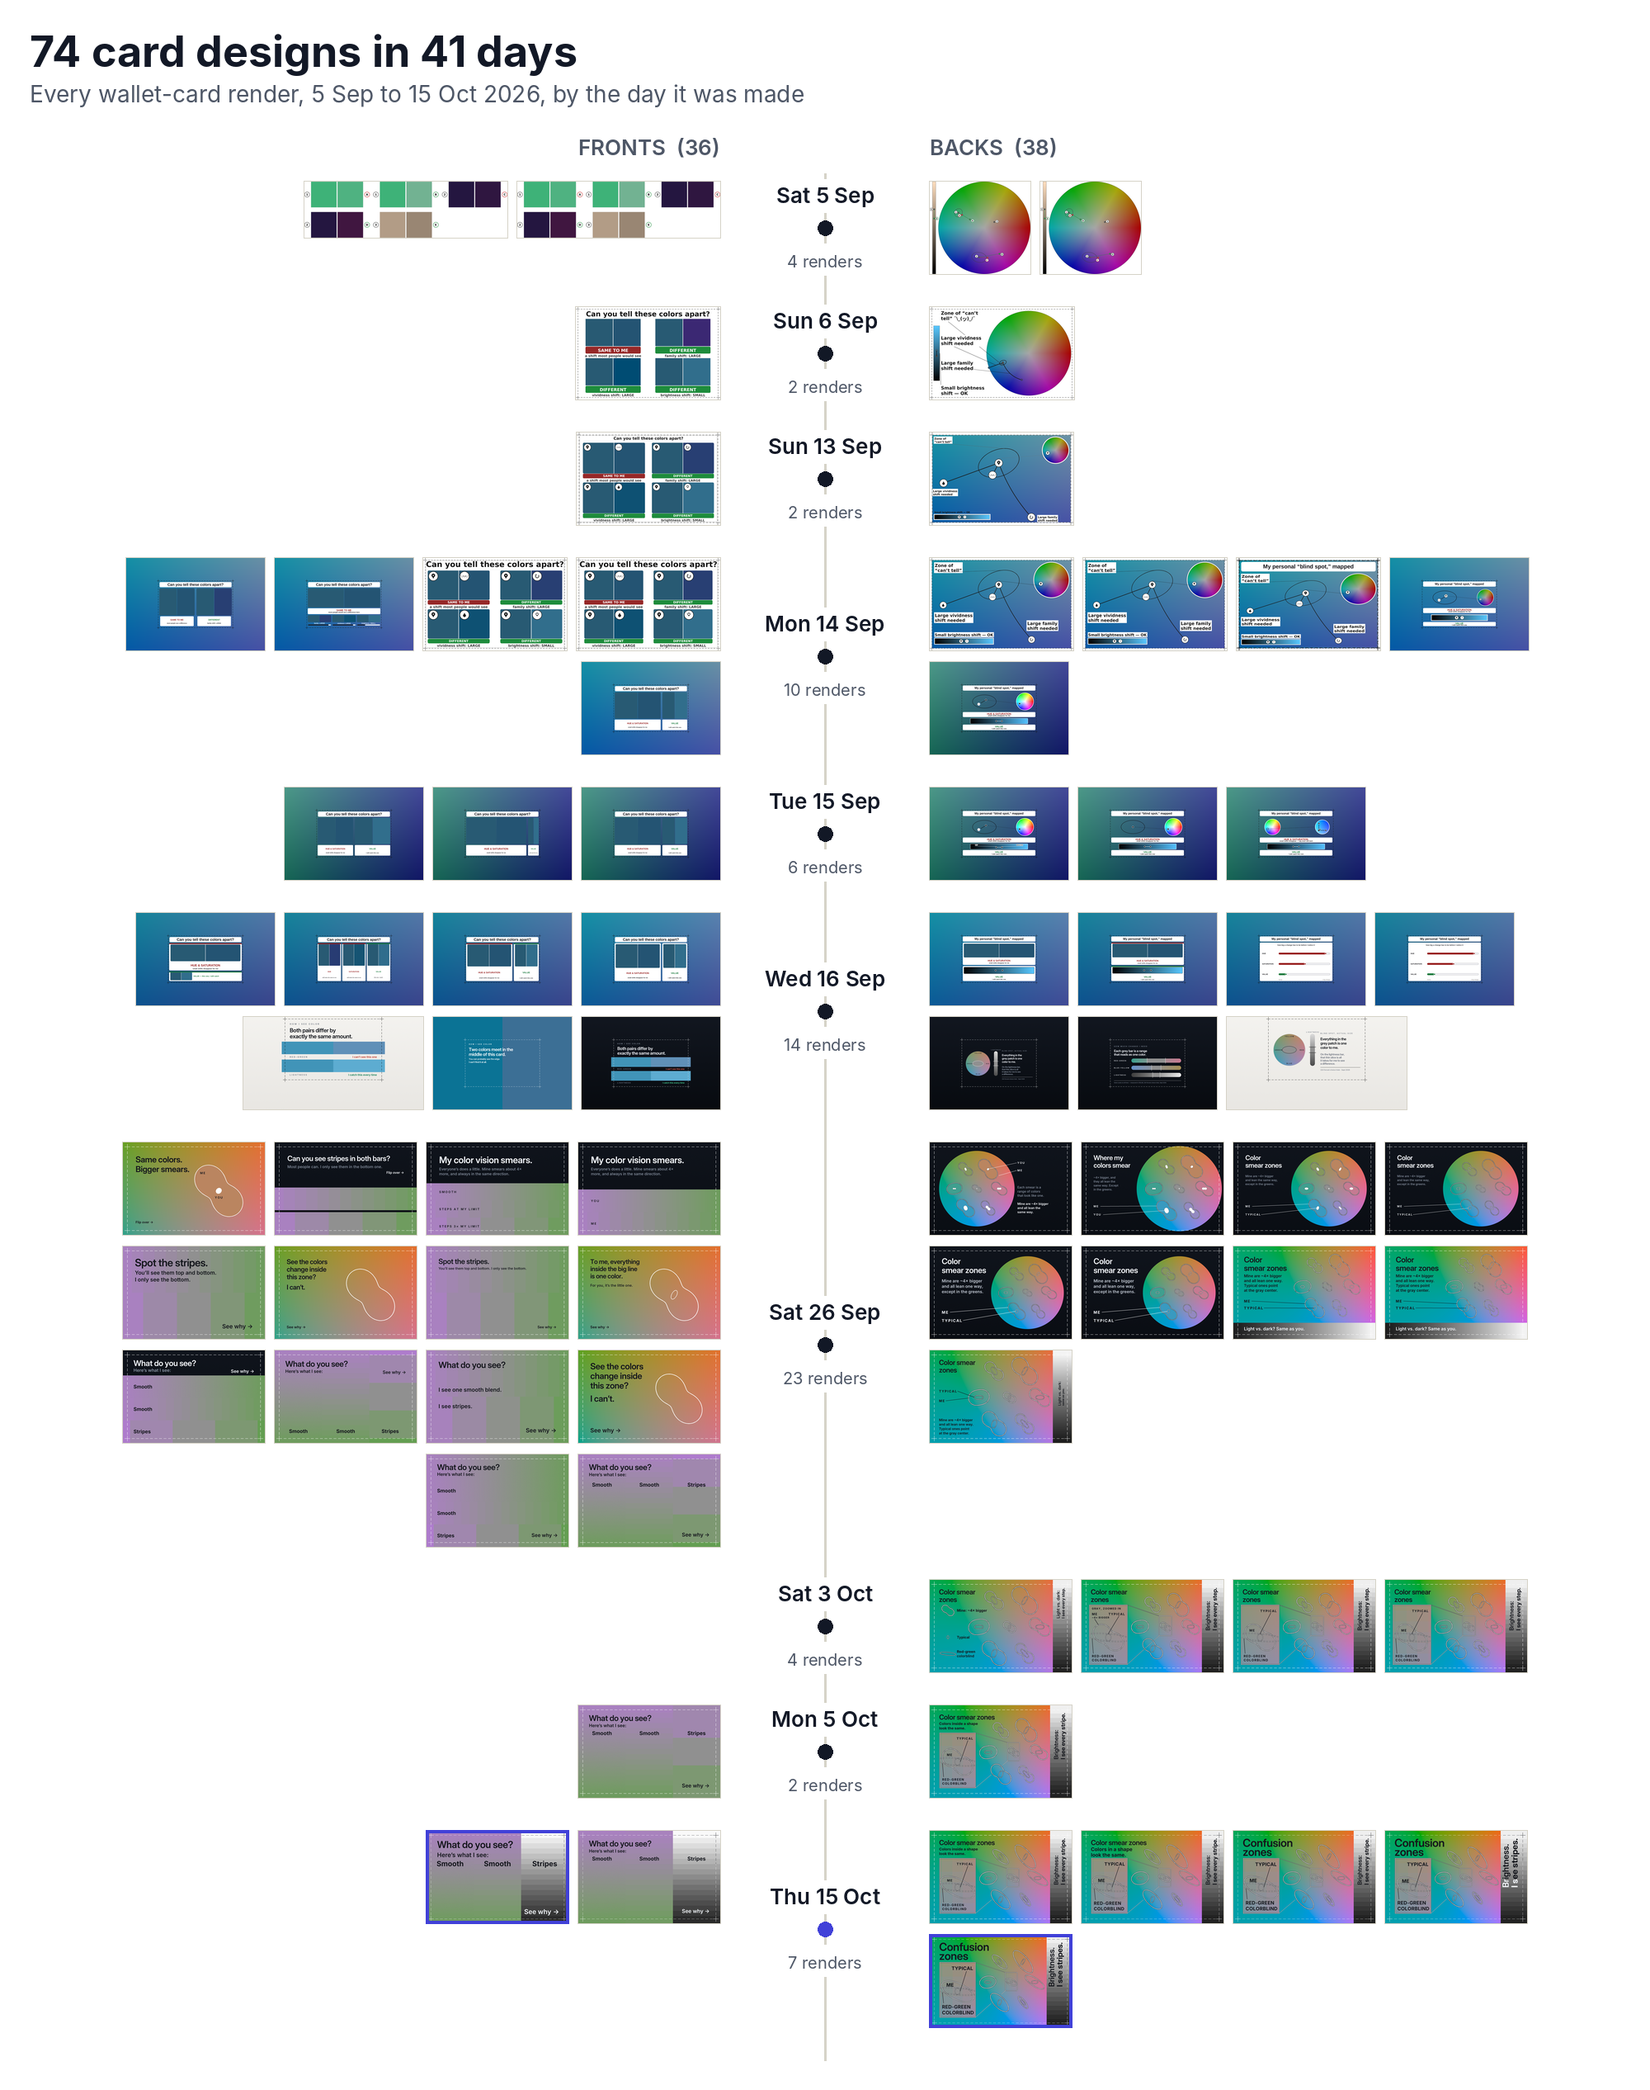
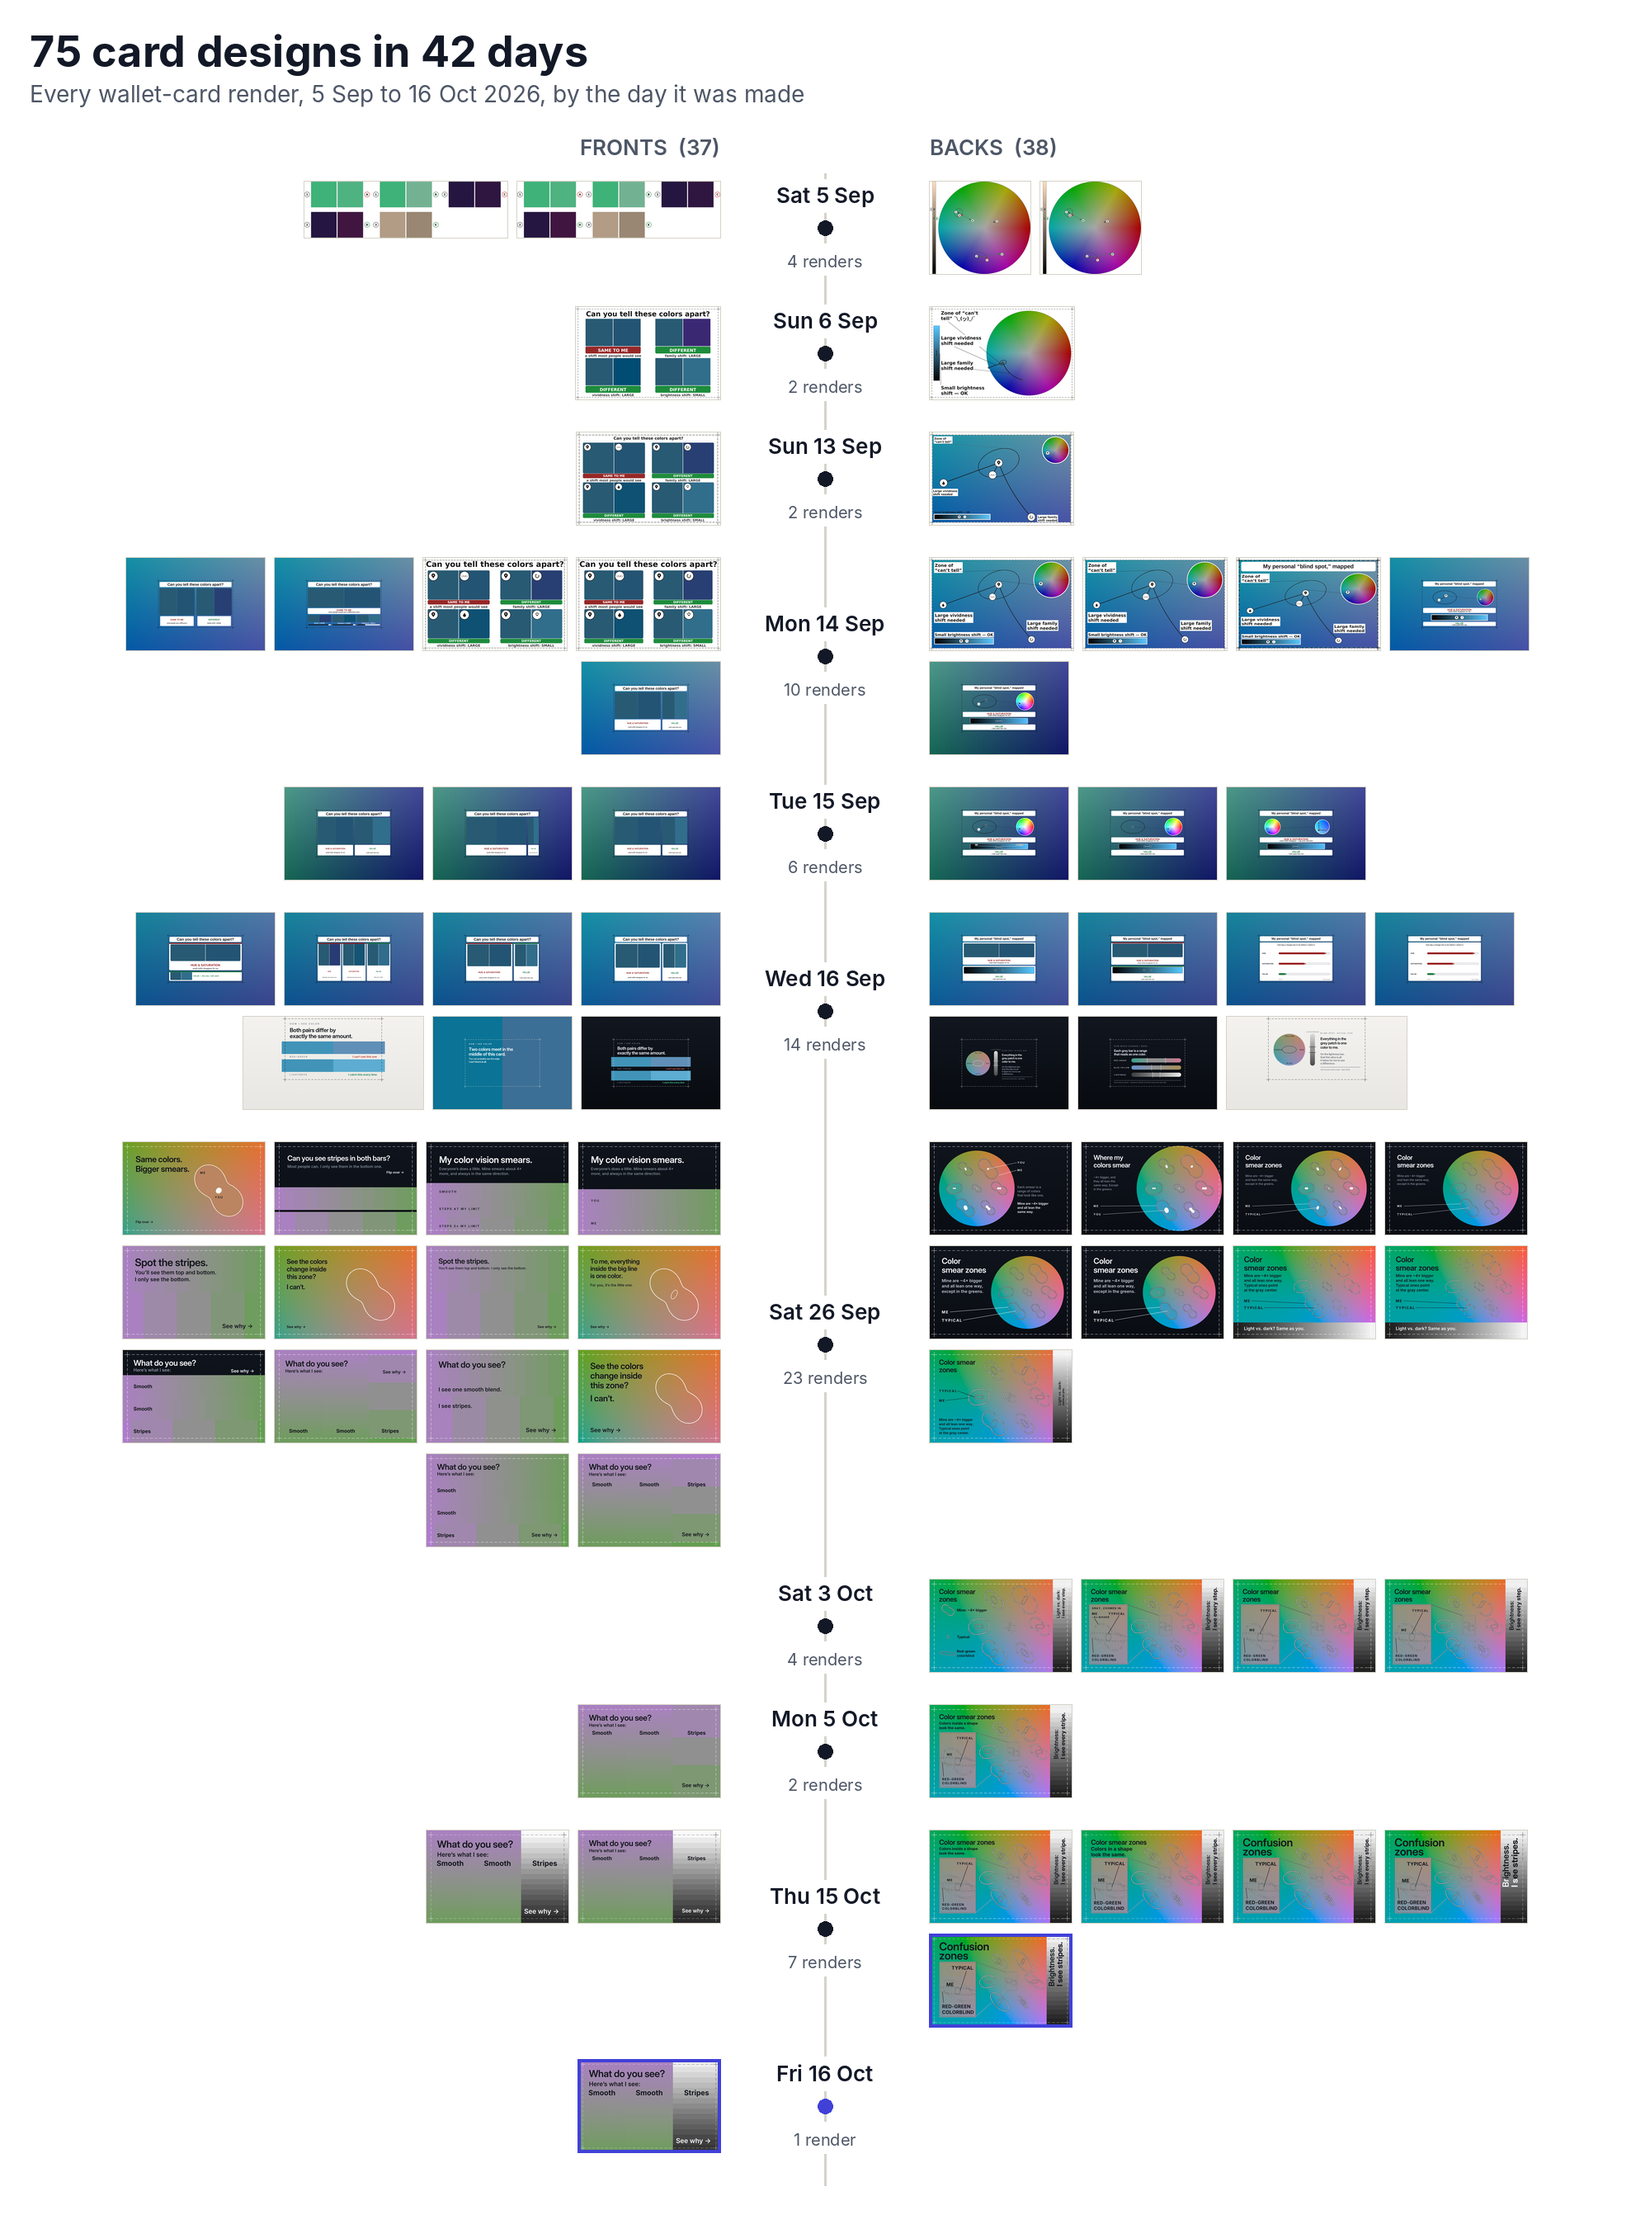
Vision post: R22 card front (color and brightness steps both 4.5 dE) + montage
card_r19 front with LSTEP = FINE = 4.5. Montage extended with a Fri 16 Oct row
(R22 final front; R19 demoted), header 75 designs in 42 days. Front text now answers
the stripe-count question and pays off the CIELAB equal-units point.

Claude-Session: https://claude.ai/code/session_013yQQmKffJVCZjdyG4SzuST

diff --git a/src/content/blog/mapping-my-own-color-vision.md b/src/content/blog/mapping-my-own-color-vision.md
@@ -145,7 +145,7 @@ I fail the red-green test without having a red-green defect - not because my con
 
 ## The vision card
 
-The wallet card idea went through 74 designs in 41 days, incorporating critiques from Reddit, Facebook, friends, family, myself, and of course, my thinking buddy, Claude. Eventually I created a design brief with the rule that it has to work in 2–3 seconds, or it fails, however clever it is. Here's the full progression of what that looked like.
+The wallet card idea went through 75 designs in 42 days, incorporating critiques from Reddit, Facebook, friends, family, myself, and of course, my thinking buddy, Claude. Eventually I created a design brief with the rule that it has to work in 2–3 seconds, or it fails, however clever it is. Here's the full progression of what that looked like.
 
 <picture>
   <source srcset="/images/2026/10/vision/card_iterations_dark.png" media="(prefers-color-scheme: dark)">
@@ -156,9 +156,9 @@ These versions failed for different reasons. For instance, the cards built on Se
 
 Here's where it landed. Before you read on: **how many columns of stripes do you see on the front?**
 
-![Card front: a purple-to-green panel in three columns, labeled with what I see: smooth, smooth, stripes](/images/2026/10/vision/card-front.png)
+![Card front: three columns - a smooth purple-to-green gradient, the same gradient in fine steps, and a gray brightness ramp in steps of the same size - labeled with what I see: smooth, smooth, stripes](/images/2026/10/vision/card-front.png)
 
-**Front:** Most people see stripes in the middle column. I see it as a smooth gradient - same as the first column, because its steps are outside a normal confusion zone, but inside mine. (Those steps are subtle, so a dim or low-quality screen can hide them even from normal eyes. If you don't see them either, the test at the end of this post will tell you more than this card can.) The last column shows steps of exactly the same size, but in brightness only and I can see them just fine.
+**Front:** Most people count two columns of stripes: the middle and the right. I count one. I see the middle column as a smooth gradient - same as the first column, because its steps are outside a normal confusion zone, but inside mine. (Those steps are subtle, so a dim or low-quality screen can hide them even from normal eyes. If you don't see them either, the test at the end of this post will tell you more than this card can.) The last column shows steps of exactly the same size, but in brightness only, and I can see them just fine. Because both columns are measured in CIELAB, "the same size" really means the same: each step is 4.5 units, about 5× what a typical eye needs near gray. In color, that's inside my confusion zone. In brightness, it's more than 6× my threshold.
 
 ![Card back: my confusion zones drawn on a color wheel, a magnified inset of the gray center comparing a typical zone, mine, and a red-green colorblind band, and a stepped brightness strip](/images/2026/10/vision/card-back.png)
 
